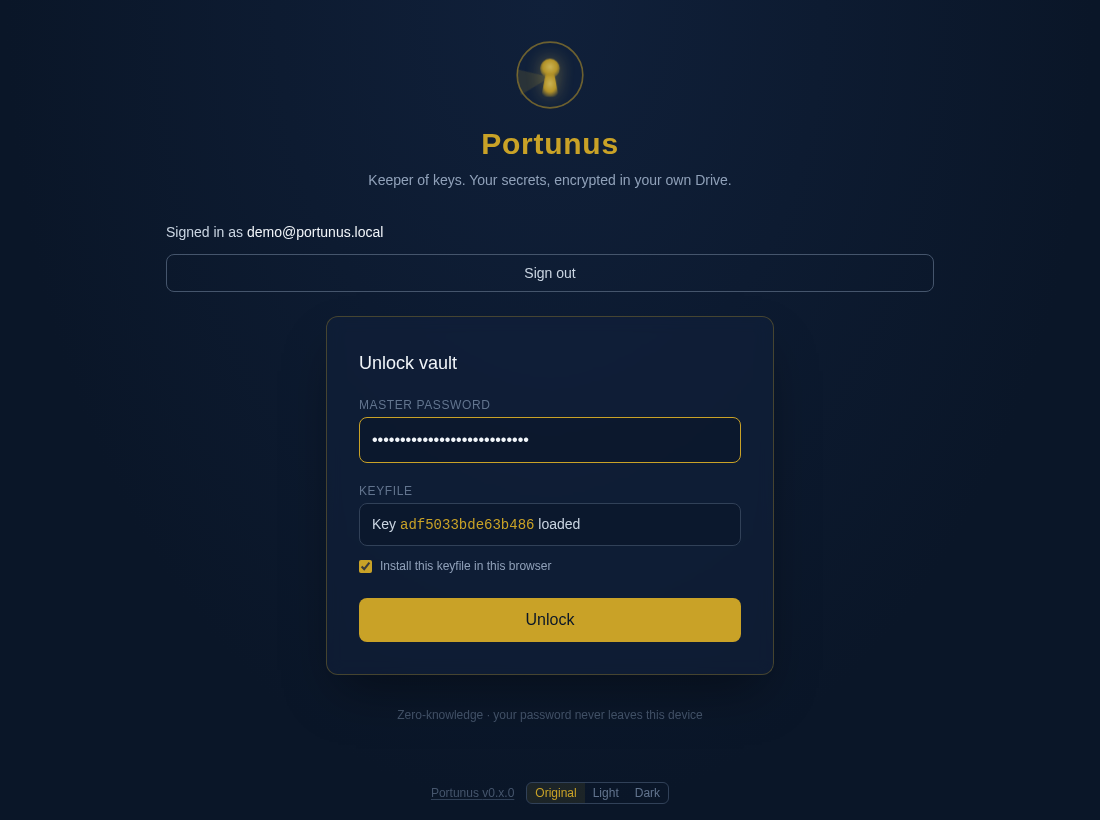
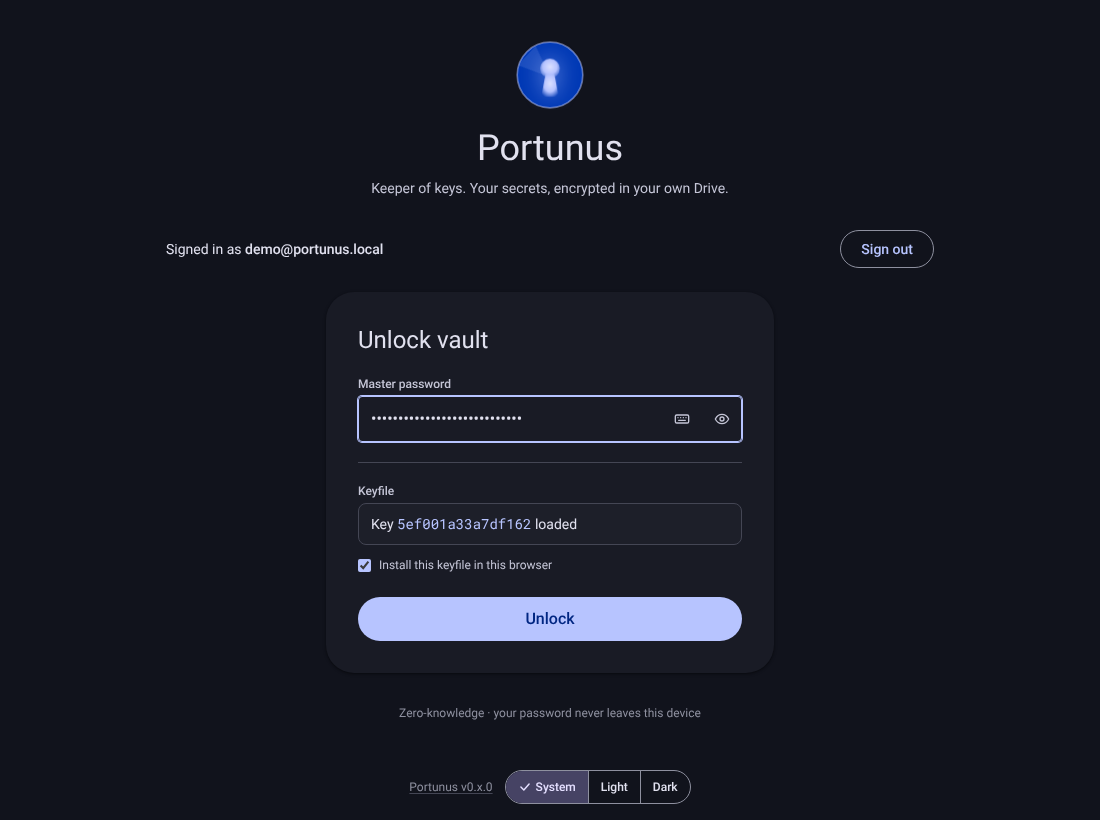
Docs site: new Features page, re-recorded Material 3 demo, app branding
- Re-record docs/screenshots (demo GIF + PNGs) against the Material 3 UI and
  add a light-scheme shot of the entry list.
- record-demo.mjs: clear a field before typing (service-name autocomplete
  pre-fills the URL) and hide the label suggestion list before Done.
- New docs/features.md (nav + sidebar); refreshed home page cards.
- Install/Configuration/Security: vault signatures (signing key required at
  boot), two-factor vault delivery, Web Worker isolation.
- Site uses the app's palette colours and keyhole emblem (copied from
  public/icons at build time, gitignored).

Claude-Session: https://claude.ai/code/session_01TjCAHqrygaknoBEub5k8Nh

diff --git a/docs/.vitepress/theme/custom.css b/docs/.vitepress/theme/custom.css
@@ -1,0 +1,26 @@
+/* Brand colours from the app's Material 3 palette (src/app/palette.css,
+   primary / primary-container), so the site matches the app. */
+:root {
+  --vp-c-brand-1: #004cec;
+  --vp-c-brand-2: #0039b5;
+  --vp-c-brand-3: #004cec;
+  --vp-c-brand-soft: rgba(0, 76, 236, 0.14);
+  --vp-home-hero-name-color: transparent;
+  --vp-home-hero-name-background: linear-gradient(120deg, #004cec 30%, #b8860b);
+  --vp-home-hero-image-background-image: linear-gradient(-45deg, #004cec 50%, #b8860b 50%);
+  --vp-home-hero-image-filter: blur(56px);
+}
+
+.dark {
+  --vp-c-brand-1: #b7c4ff;
+  --vp-c-brand-2: #dce1ff;
+  --vp-c-brand-3: #0039b5;
+  --vp-c-brand-soft: rgba(183, 196, 255, 0.16);
+  --vp-home-hero-name-background: linear-gradient(120deg, #b7c4ff 30%, #ffdea6);
+}
+
+/* The emblem is the app's square PWA icon; show it round, like in the app. */
+.VPHero .image-src,
+.VPNavBarTitle .logo {
+  border-radius: 50%;
+}

diff --git a/docs/features.md b/docs/features.md
@@ -1,0 +1,115 @@
+# Features
+
+A tour of what Portunus does today. The complete, authoritative list is
+README's [Features](https://github.com/ralphv/portunus/blob/main/README.md#features)
+section; this page groups it by what you'd want to know.
+
+![Unlocked vault in the dark scheme: site icons, colour-coded labels, an SSO chip and a live two-factor code](./screenshots/entries.png)
+
+## Encryption and unlocking
+
+- **Zero-knowledge server.** Argon2id + XChaCha20-Poly1305, all in your
+  browser. The server never sees plaintext, your master password, or your
+  keyfile. See the [Security model](./security).
+- **Password *and* keyfile.** `KEK = Argon2id(password ‖ keyfile)`: a leaked
+  password alone can't brute-force the vault, and neither can the keyfile
+  alone. The keyfile can be installed in the browser per device or loaded
+  per session, and a Crockford-Base32 recovery code is shown once at
+  creation.
+- **Show/hide and an on-screen keyboard.** Every password field has an eye
+  button. The unlock field also has an optional on-screen keyboard whose keys
+  are shuffled each time it opens, so a keylogger sees no keystrokes and
+  click positions alone don't give the password away.
+- **Biometric unlock (optional).** With `PORTUNUS_BIOMETRIC_UNLOCK=1`, a phone
+  or laptop can unlock with its fingerprint, face or screen lock (WebAuthn
+  passkey + PRF). The keyfile is still required and the master password is
+  never stored. See [Biometric unlock](./configuration#biometric-unlock).
+- **Two-factor vault delivery (optional).** Turn it on from Security and the
+  server asks for a fresh authenticator code on every unlock before it sends
+  the vault to a browser. See
+  [Two-factor vault delivery](./configuration#two-factor-vault-delivery).
+- **Vault isolated in a Web Worker.** The keys and decrypted vault live in a
+  dedicated Worker. The page only holds names, usernames, URLs and other
+  non-secret fields, and asks the Worker for a password or TOTP seed only
+  when you reveal, edit or copy it. Locking terminates the Worker.
+
+## Storage and integrity
+
+- **Your own Google Drive.** The vault is one ciphertext file,
+  `portunus.vault.json`, in a `Portunus Application` folder. The `drive.file`
+  scope means the app only sees files it created.
+- **Tamper-detected vault file.** The server signs every save with Ed25519,
+  bound to that Drive file's id, and refuses to serve a file whose signature
+  is missing, wrong, or made for a different file. See
+  [Vault signatures](./configuration#vault-signatures).
+- **Offline mode.** The vault opens read-only from a cached ciphertext and
+  recovers by itself when connectivity returns.
+- **Save protection.** Saving asks for your master password again, and
+  concurrent writes are detected. The Save button only appears once there are
+  unsaved changes.
+
+## Everyday password manager
+
+![Expanded entry: auto-detected site icon, generated password with strength meter, live two-factor code and a label](./screenshots/entry-edit.png)
+
+- **Search and labels.** Multi-term search (press `.` to jump to it),
+  colour-coded labels with one-click filters, and a label input that lists
+  every existing label as tap-to-add chips.
+- **Sorting.** Vault order, name A–Z / Z–A, oldest/newest first, or
+  oldest/newest password. Display only, remembered per device.
+- **Entry editor.** Username, email, password, URL, notes, and an SSO
+  provider field that marks accounts signed in via SSO with an
+  `sso · provider` chip. Quick-copy buttons on the collapsed row.
+- **Password generator and strength meter.** zxcvbn scoring with a
+  crack-time estimate under every password field.
+- **Two-factor codes (TOTP).** Paste a secret or `otpauth://` URI, or scan
+  the QR setup image. Live codes with a countdown, copyable from the editor
+  and the collapsed row.
+- **Site icons.** About 260 bundled brand logos, matched from the entry's URL
+  or name with nothing leaving the browser. Logos are drawn in their brand
+  colour, unmatched entries get a coloured letter monogram, and each icon can
+  be overridden from a searchable picker.
+- **Service name autocomplete.** "Net" completes to "Netflix" (Tab to
+  accept), and fills in the URL when it's empty.
+- **Duplicate and whitespace warnings.** A "duplicate?" hint when a new entry
+  is for the same site and reuses an existing username or email; stray
+  leading/trailing spaces are highlighted with a one-click trim.
+- **Entry history.** Created/updated timestamps, update count, and the last
+  5 previous passwords.
+- **Have I Been Pwned checks.** An opt-in k-anonymity audit from the menu,
+  plus an automatic check when you edit a password. Only the first 5
+  characters of the SHA-1 hash leave the browser. See
+  [Have I Been Pwned checks](./configuration#have-i-been-pwned-checks).
+- **Secrets rendered on demand.** Passwords show as a fixed-length mask with
+  no `<input>` holding them until you edit or "show", and re-mask when you
+  click away, switch tabs, or after 30 s idle.
+- **Focus mode.** Shows only the entry you're editing or adding until you
+  press Done or Delete (on by default).
+- **Synced settings.** Per-vault preferences (on-edit breach check, browser
+  autofill suppression, Focus mode) are stored inside the encrypted document,
+  so they follow you across devices.
+- **Auto-lock.** A visible countdown that pauses while you have unsaved
+  changes; mouse, keys and scroll reset it. The lock button next to Save
+  locks right away.
+
+## Look and feel
+
+![The same vault in the light scheme](./screenshots/entries-light.png)
+
+- **Material 3 design** with a light and a dark colour scheme. System (the
+  default) follows your device's setting, or pick Light or Dark; the choice is
+  remembered per browser.
+- Each label keeps one colour everywhere, letter avatars are coloured per
+  name, and brand icons are toned for contrast in both schemes.
+
+## Hardening
+
+- **Strict Content-Security-Policy**: `script-src 'self'` with a per-request
+  nonce and build-time hashes, no `'unsafe-inline'`/`'unsafe-eval'`,
+  `frame-ancestors 'none'`, plus `nosniff`, `no-referrer`, a restrictive
+  `Permissions-Policy`, and HSTS over HTTPS.
+- **Script tamper-evidence (best effort).** Any `<script>` the build didn't
+  emit shows an "Unexpected script detected" banner. See
+  [Script injection](./security#script-injection).
+- **One stateless Docker image.** Next.js standalone build, non-root, no
+  database. See [Install](./install).

diff --git a/docs/configuration.md b/docs/configuration.md
@@ -12,14 +12,19 @@ lists every variable with placeholder values.
 | `AUTH_GOOGLE_SECRET` | yes | Google OAuth client secret |
 | `AUTH_SECRET` | yes | Session encryption secret. Generate with `openssl rand -hex 32` (or `npx auth secret`) |
 | `AUTH_URL` | yes | Public origin, for example `https://vault.example.com` ([HTTPS](./https)) |
+| `PORTUNUS_SIGNING_PRIVATE_KEY` | yes, unless signatures are disabled or in demo mode | Ed25519 private key used to sign and verify the Drive vault file: base64 of the DER-encoded PKCS#8 key, one line. See [Vault signatures](#vault-signatures) |
+| `PORTUNUS_SIGNATURES_DISABLED` | no | `1` turns vault signatures off entirely: no key needed, the vault is stored and read as a bare envelope (default: off) |
+| `PORTUNUS_ALLOW_MISSING_SIGNATURE` | no | `1` accepts legacy **unsigned** vault files during migration; a present but invalid signature is still rejected. Remove once every vault has been re-saved (default: off) |
 | `PORTUNUS_HIBP_ON_EDIT` | no | `0` disables the silent Have I Been Pwned re-check on password edits entirely and hides its Settings toggle (default: on) |
 | `DISABLE_OFFLINE_MODE` | no | `1` disables the offline mode feature entirely (default: off) |
 | `PORTUNUS_BIOMETRIC_UNLOCK` | no | `1` turns on biometric unlock: a device can unlock with its fingerprint, face or screen lock instead of the master password, after the user enables it there (default: off) — see [Biometric unlock](#biometric-unlock) |
 | `PORTUNUS_BIOMETRIC_SAVE_CONFIRM` | no | `0` makes saves always ask for the master password, even on a device with biometric unlock; otherwise biometrics can confirm a save (default: on; only applies with `PORTUNUS_BIOMETRIC_UNLOCK=1`) |
-| `PORTUNUS_DEMO_MODE` | no | `1` enables demo mode with in-memory storage and stubbed sign-in (default: off). **Never use with real secrets** |
+| `PORTUNUS_DEMO_MODE` | no | `1` enables demo mode with in-memory storage and stubbed sign-in; vault signing is skipped (default: off). **Never use with real secrets** |
 
-**The server refuses to start if any required variable is missing.** Demo
-mode is the exception: it needs no `AUTH_*` variables and skips the check.
+**The server refuses to start if any required variable is missing**,
+including `PORTUNUS_SIGNING_PRIVATE_KEY` being unset or unparseable while
+signatures are enabled. Demo mode is the exception: it needs no `AUTH_*`
+variables and skips the check.
 
 ## `AUTH_URL`
 
@@ -92,6 +97,78 @@ records on the next visit. Phones and laptops with a fingerprint or face
 sensor work, and so do FIDO2 security keys that support PRF (`hmac-secret`;
 user verification is the key's PIN). Moving the app to another domain
 (`AUTH_URL`) requires setting it up again.
+
+## Vault signatures
+
+Every save goes through the Portunus server, which signs the vault file with
+Ed25519 before it is stored in Drive. The signature covers the encrypted
+payload **and the Drive file id**, so a signed file copied over another vault
+file doesn't verify. On load the server checks it before returning anything;
+if the signature is missing or wrong, the app refuses to unlock ("vault
+signature invalid — the file may have been tampered with"). The browser never
+sees the signature wrapper.
+
+This detects edits to `portunus.vault.json` made outside Portunus, by someone
+with access to your Google account or Drive, a sync client, or another tool.
+It doesn't protect against a compromised Portunus server (which holds the key),
+and it doesn't stop someone with Drive access from putting back an older copy
+of the same file (rollback).
+
+Generate the key once per deployment, as shown in
+[Install](./install#docker-compose), and keep it as secret as `AUTH_SECRET`.
+
+**Upgrading an install whose vaults predate signatures.** Unsigned vaults are
+rejected by an enforcing server, and every save writes the signed format:
+
+1. Set `PORTUNUS_SIGNING_PRIVATE_KEY` **and**
+   `PORTUNUS_ALLOW_MISSING_SIGNATURE=1`, then restart.
+2. Have each user unlock and **save** their vault once.
+3. Once the server stops logging `[vault] accepted unsigned vault …`, remove
+   `PORTUNUS_ALLOW_MISSING_SIGNATURE` and restart.
+
+::: warning
+While `PORTUNUS_ALLOW_MISSING_SIGNATURE=1` is set, a tampered file with its
+signature stripped would be accepted too. Keep the migration window short. A
+file that *has* a signature is always verified.
+:::
+
+**Rotating or losing the key.** Every signed vault fails verification under a
+different key. To rotate, set `PORTUNUS_SIGNATURES_DISABLED=1`, re-save every
+vault, then remove the flag and restart with the new key, with
+`PORTUNUS_ALLOW_MISSING_SIGNATURE=1` until the vaults are saved again.
+
+The full design is in README's
+[Vault signatures](https://github.com/ralphv/portunus/blob/main/README.md#vault-signatures).
+
+## Two-factor vault delivery
+
+Optional, per vault, and needs no server configuration: in the app, open
+**Security → Enable two-factor authentication**, re-enter your master
+password, scan the QR code (or type the manual key) into an authenticator
+app, and confirm a code. From then on the server serves the vault only after
+a fresh 6-digit code, on every unlock, including after a lock or a reload. A
+failed unlock says "Wrong password, keyfile or two-factor code" without
+telling which one. **Disable 2FA** in the same dialog removes it.
+
+The TOTP secret is stored next to the ciphertext in the signed wrapper, so it
+can't be stripped or swapped without the file failing verification.
+
+**What it does and doesn't protect.** It gates the Portunus server's delivery
+of the vault only. It stops someone who has your password and keyfile and can
+sign in as you, but doesn't have your authenticator. Anyone who can read the
+Drive file directly still gets the ciphertext, which still needs the password
+**and** the keyfile; and a device that has cached the vault for
+[offline mode](#offline-mode) can open it read-only without a code.
+
+::: warning Keep the manual key
+Losing the authenticator locks the app out of your vault. Recovery needs the
+server operator: run with `PORTUNUS_SIGNATURES_DISABLED=1`, delete the `totp`
+key from the Drive file, unlock and save once, then re-enable signatures with
+`PORTUNUS_ALLOW_MISSING_SIGNATURE=1` until the next save re-signs it.
+:::
+
+Details are in README's
+[Two-factor vault delivery](https://github.com/ralphv/portunus/blob/main/README.md#two-factor-vault-delivery).
 
 ## Demo mode
 

diff --git a/docs/index.md b/docs/index.md
@@ -5,10 +5,16 @@ hero:
   name: Portunus
   text: Your secrets, encrypted in your browser
   tagline: Self-hosted, stateless, zero-knowledge secrets manager backed by your own Google Drive.
+  image:
+    src: /logo.png
+    alt: Portunus keyhole emblem
   actions:
     - theme: brand
       text: Install
       link: /install
+    - theme: alt
+      text: Features
+      link: /features
     - theme: alt
       text: GitHub
       link: https://github.com/ralphv/portunus
@@ -20,15 +26,19 @@ features:
     details: "KEK = Argon2id(password ‖ keyfile). A leaked password alone can't brute-force the vault; neither can the keyfile alone."
   - title: Your own Google Drive
     details: The vault is one ciphertext file, portunus.vault.json, in your Drive. The drive.file scope means the app only sees files it created.
+  - title: Tamper-detected vault file
+    details: The server signs every save with Ed25519, bound to that Drive file, and refuses to serve a file that was edited outside Portunus.
+  - title: A full password manager
+    details: Site icons, colour-coded labels, live two-factor codes, password generator and strength meter, breach checks, SSO chips, and Material 3 light and dark themes.
   - title: One stateless Docker image
     details: No database to run, back up, migrate, or secure. Losing the server costs you nothing but the time to start another one.
 ---
 
-![Portunus demo: sign in, create a vault, unlock with keyfile, add entries, search and copy](./screenshots/demo.gif)
+![Portunus demo: sign in, create a vault, unlock with keyfile, add entries with site icons, SSO, two-factor codes and labels, then search and copy](./screenshots/demo.gif)
 
 ## Where to start
 
-- **Just looking?** Run [demo mode](./demo) locally with one `docker run`. No Google account is used.
+- **Just looking?** See every [feature](./features), or run [demo mode](./demo) locally with one `docker run`. No Google account is used.
 - **Self-hosting?** Follow [Install](./install), then [Google OAuth setup](./google-oauth) and [Running over HTTPS](./https).
 - **Deciding whether to trust it?** Read the [Security model](./security) and the [FAQ](./faq).
 

diff --git a/docs/security.md b/docs/security.md
@@ -60,6 +60,33 @@ protection there. Changing the master password turns biometric unlock off on
 every device. Details are in
 [Biometric unlock](./configuration#biometric-unlock).
 
+## Vault file signatures
+
+The server signs every save with Ed25519, bound to the Drive file's id, and
+refuses to serve a vault file whose signature is missing or wrong. This
+catches edits to the file made outside Portunus before anything is decrypted.
+It doesn't protect against a compromised Portunus server, and it doesn't
+detect an older signed copy of the same file being put back (rollback). See
+[Vault signatures](./configuration#vault-signatures).
+
+## Two-factor vault delivery (optional)
+
+With 2FA turned on for a vault, the server sends it to a browser only after a
+fresh authenticator code. This gates the app's delivery path, not Drive: the
+ciphertext in Drive still needs the password and keyfile, and an offline
+cache opens without a code. The TOTP secret is server-visible (the server
+must check codes) and integrity-protected by the file signature. See
+[Two-factor vault delivery](./configuration#two-factor-vault-delivery).
+
+## Vault isolated in a Web Worker
+
+The keys and the decrypted vault live in a dedicated Web Worker. The page
+only holds non-secret fields (names, usernames, URLs) and asks the Worker for
+a password or TOTP seed only when you reveal, edit or copy it; locking
+terminates the Worker. Script already running in the page could still ask
+the Worker for secrets, which is what the
+[Content-Security-Policy](#script-injection) prevents.
+
 ## What the server sees, and what it never sees
 
 The Portunus server brokers Google OAuth and proxies Drive calls. It handles

diff --git a/README.md b/README.md
@@ -222,6 +222,10 @@ it is the most likely next backend.
 |---|---|
 | ![Entries](docs/screenshots/entries.png) | ![Entry editor](docs/screenshots/entry-edit.png) |
 
+| Light scheme | Landing page |
+|---|---|
+| ![Entries, light scheme](docs/screenshots/entries-light.png) | ![Landing](docs/screenshots/landing.png) |
+
 ## Quick start (Docker Compose)
 
 The fastest way to run Portunus is Docker Compose. Fill in the environment
@@ -610,7 +614,8 @@ node scripts/record-demo.mjs           # BASE_URL defaults to http://localhost:3
 ```
 
 The script drives landing → sign-in → create vault → recovery code/keyfile →
-unlock → add/search/copy entries in headless Chromium, writes the PNGs in
+unlock → add/search/copy entries in headless Chromium (plus one light-scheme
+shot of the entry list), writes the PNGs in
 `docs/screenshots/`, and converts the video to `docs/screenshots/demo.gif`
 with `ffmpeg` (must be on `PATH`).
 

diff --git a/docs/install.md b/docs/install.md
@@ -30,8 +30,25 @@ services:
       AUTH_GOOGLE_SECRET: "your-google-client-secret"
       AUTH_SECRET: "generate-with-openssl-rand-hex-32"
       AUTH_URL: "http://localhost:3000"     # public origin when deployed
+      PORTUNUS_SIGNING_PRIVATE_KEY: "see-below"
     restart: unless-stopped
 ```
+
+`PORTUNUS_SIGNING_PRIVATE_KEY` is the Ed25519 key the server signs the Drive
+vault file with ([Vault signatures](./configuration#vault-signatures)); the
+server won't start without it. Generate one per deployment:
+
+```bash
+openssl genpkey -algorithm ed25519 -out portunus-signing.pem
+```
+
+```bash
+openssl pkey -in portunus-signing.pem -outform DER | base64 | tr -d '\n'
+```
+
+Put the one-line output in `PORTUNUS_SIGNING_PRIVATE_KEY` and keep
+`portunus-signing.pem` somewhere safe: vaults signed with a key can only be
+verified with that same key.
 
 ```bash
 docker compose up -d

diff --git a/docs/demo.md b/docs/demo.md
@@ -21,6 +21,12 @@ you're ready for a real vault, go to [Install](./install).
 |---|---|
 | ![Create vault](./screenshots/create-vault.png) | ![Unlock](./screenshots/unlock.png) |
 
-| Unlocked vault: entry list and search | Expanded entry: edit fields |
+| Unlocked vault: site icons, labels, SSO and 2FA | Expanded entry: generator, strength meter, live 2FA code |
 |---|---|
 | ![Entries](./screenshots/entries.png) | ![Entry editor](./screenshots/entry-edit.png) |
+
+| Light scheme (System follows your device, or pick Light / Dark) | Landing page |
+|---|---|
+| ![Entries in the light scheme](./screenshots/entries-light.png) | ![Landing](./screenshots/landing.png) |
+
+For the full list of what you can try, see [Features](./features).

diff --git a/CHANGELOG.md b/CHANGELOG.md
@@ -31,6 +31,12 @@ and this project adheres to [Semantic Versioning](https://semver.org/spec/v2.0.0
 
 ### Changed
 
+- **Docs site** (GitHub Pages) — new Features page; demo GIF and screenshots
+  re-recorded with the Material 3 UI (plus a light-scheme shot); the site
+  uses the app's colours and keyhole emblem; Install, Configuration and
+  Security now cover vault signatures (`PORTUNUS_SIGNING_PRIVATE_KEY`),
+  two-factor vault delivery and Web Worker isolation.
+
 - **Press `.` to search** — while no entry is open, pressing `.` anywhere
   outside a text field or dialog focuses the entry search box; the box says
   "Search entries (press . to focus)…" until it has focus.
